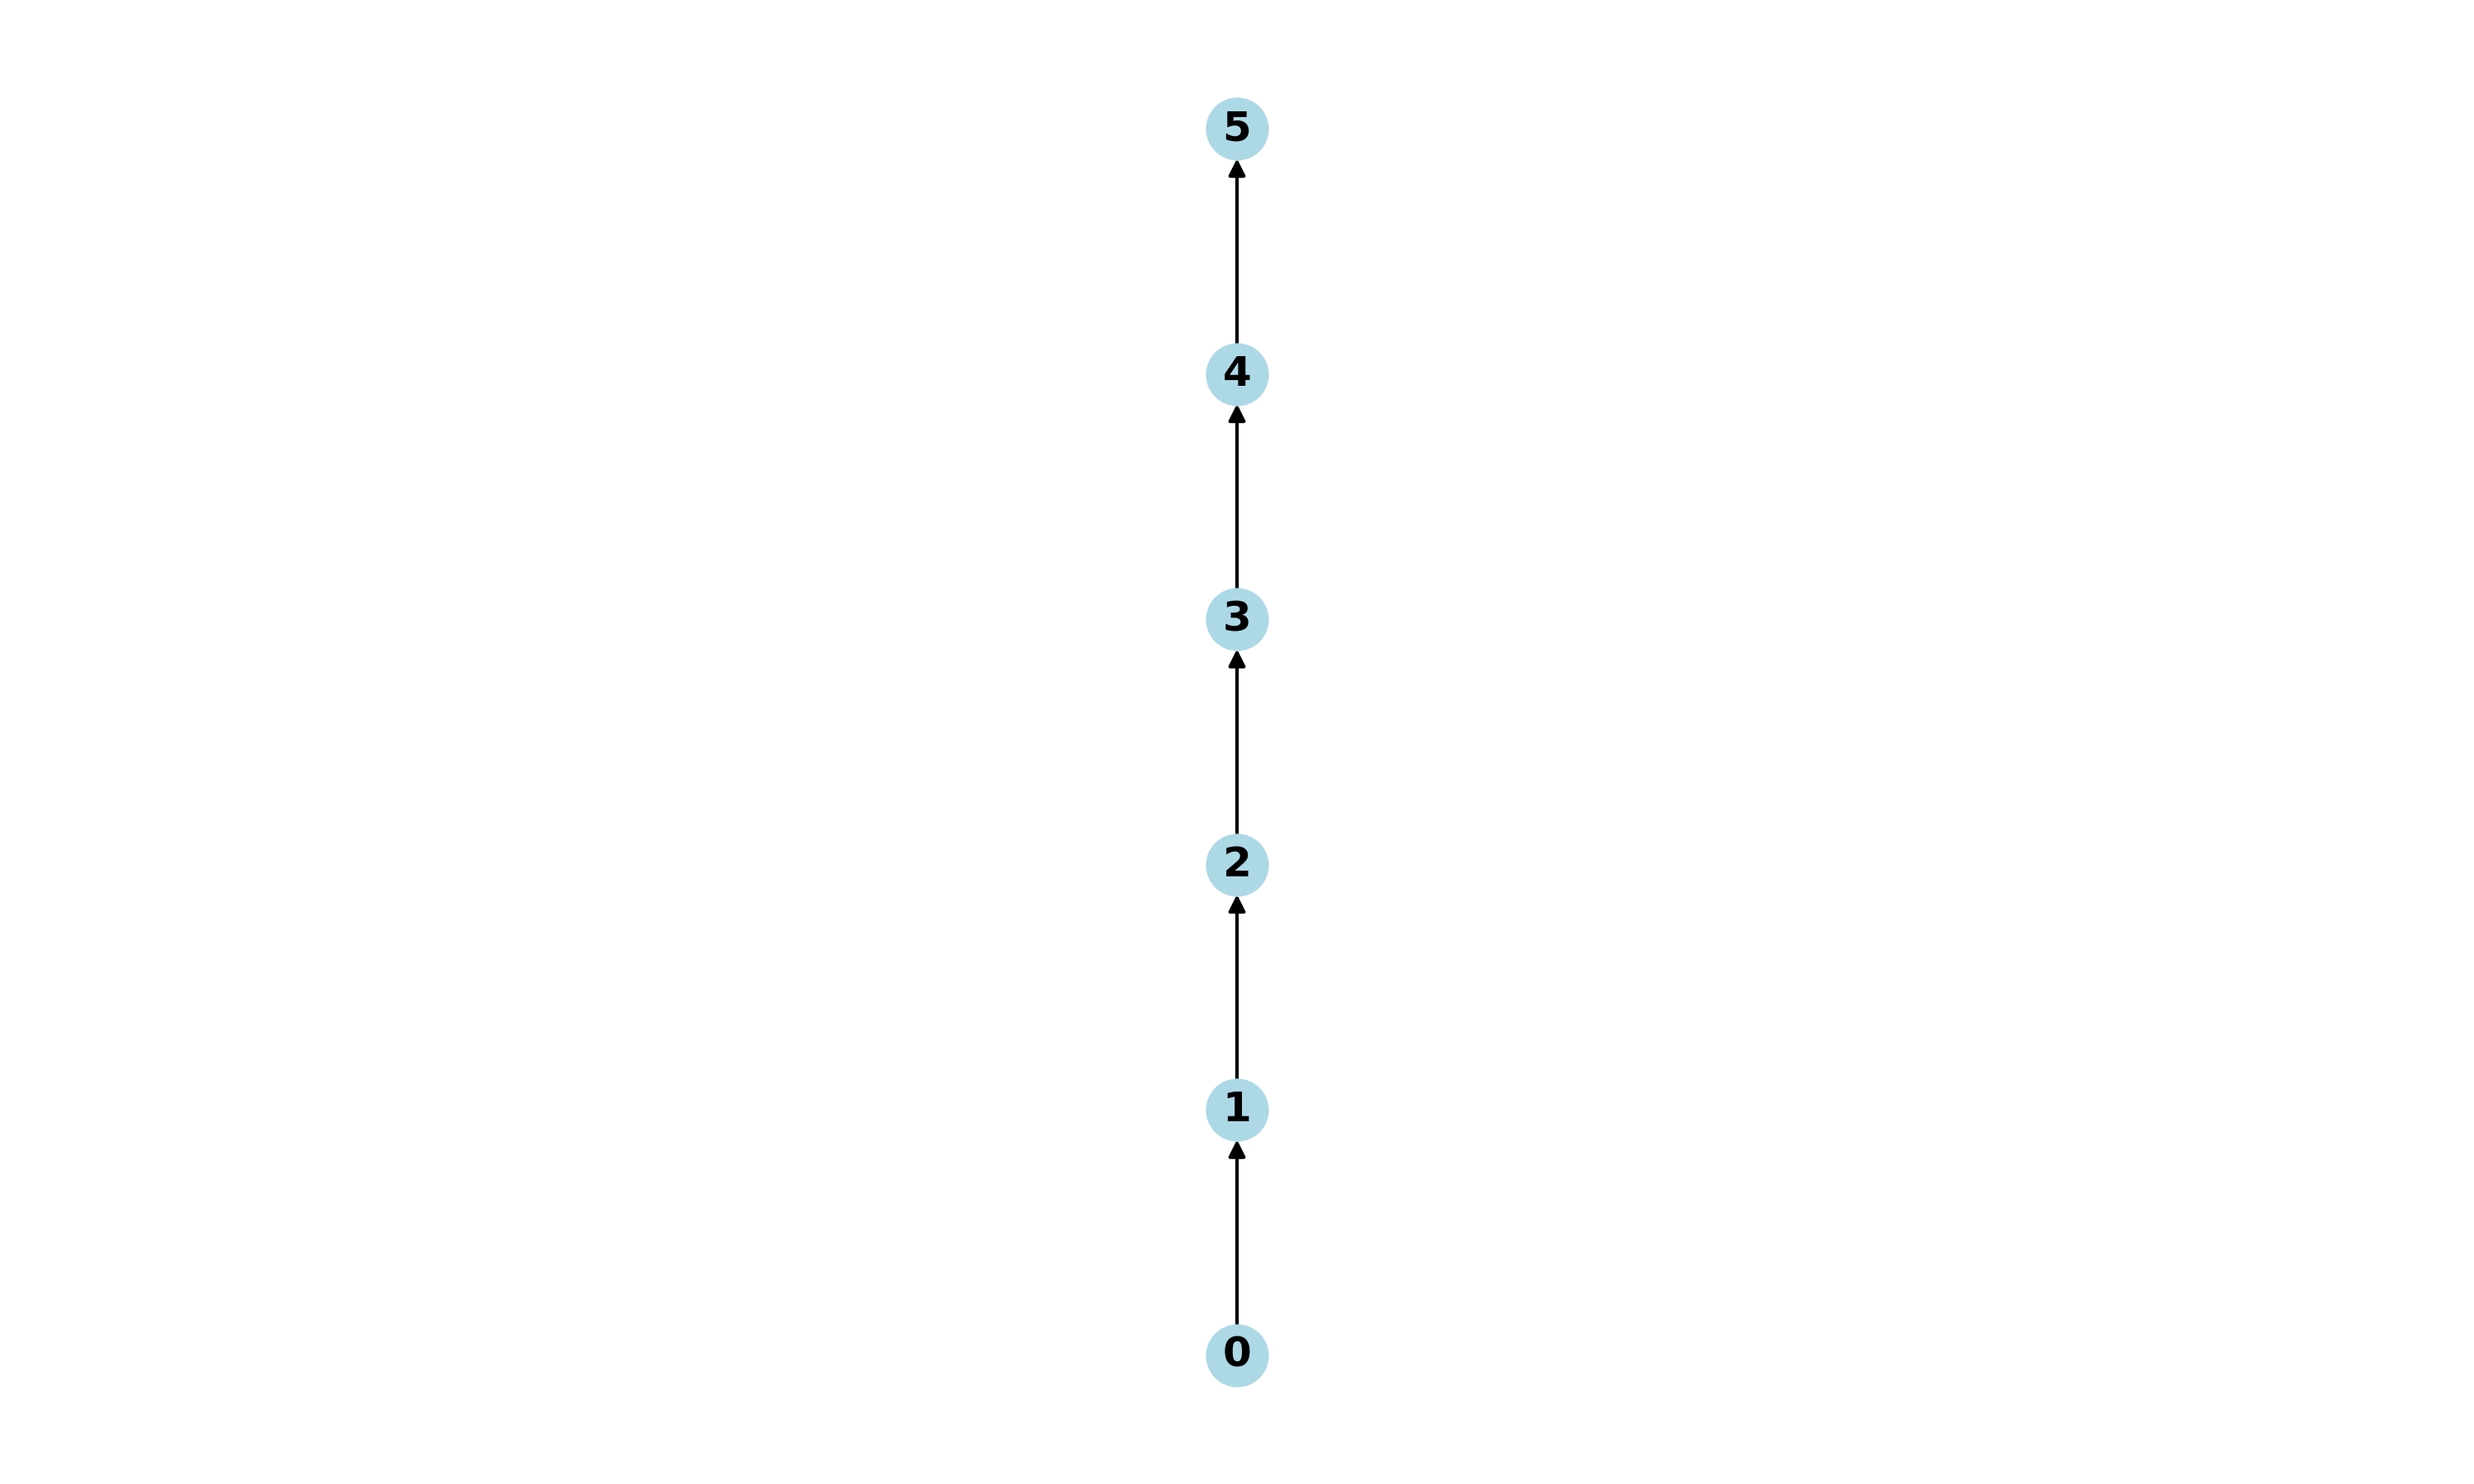
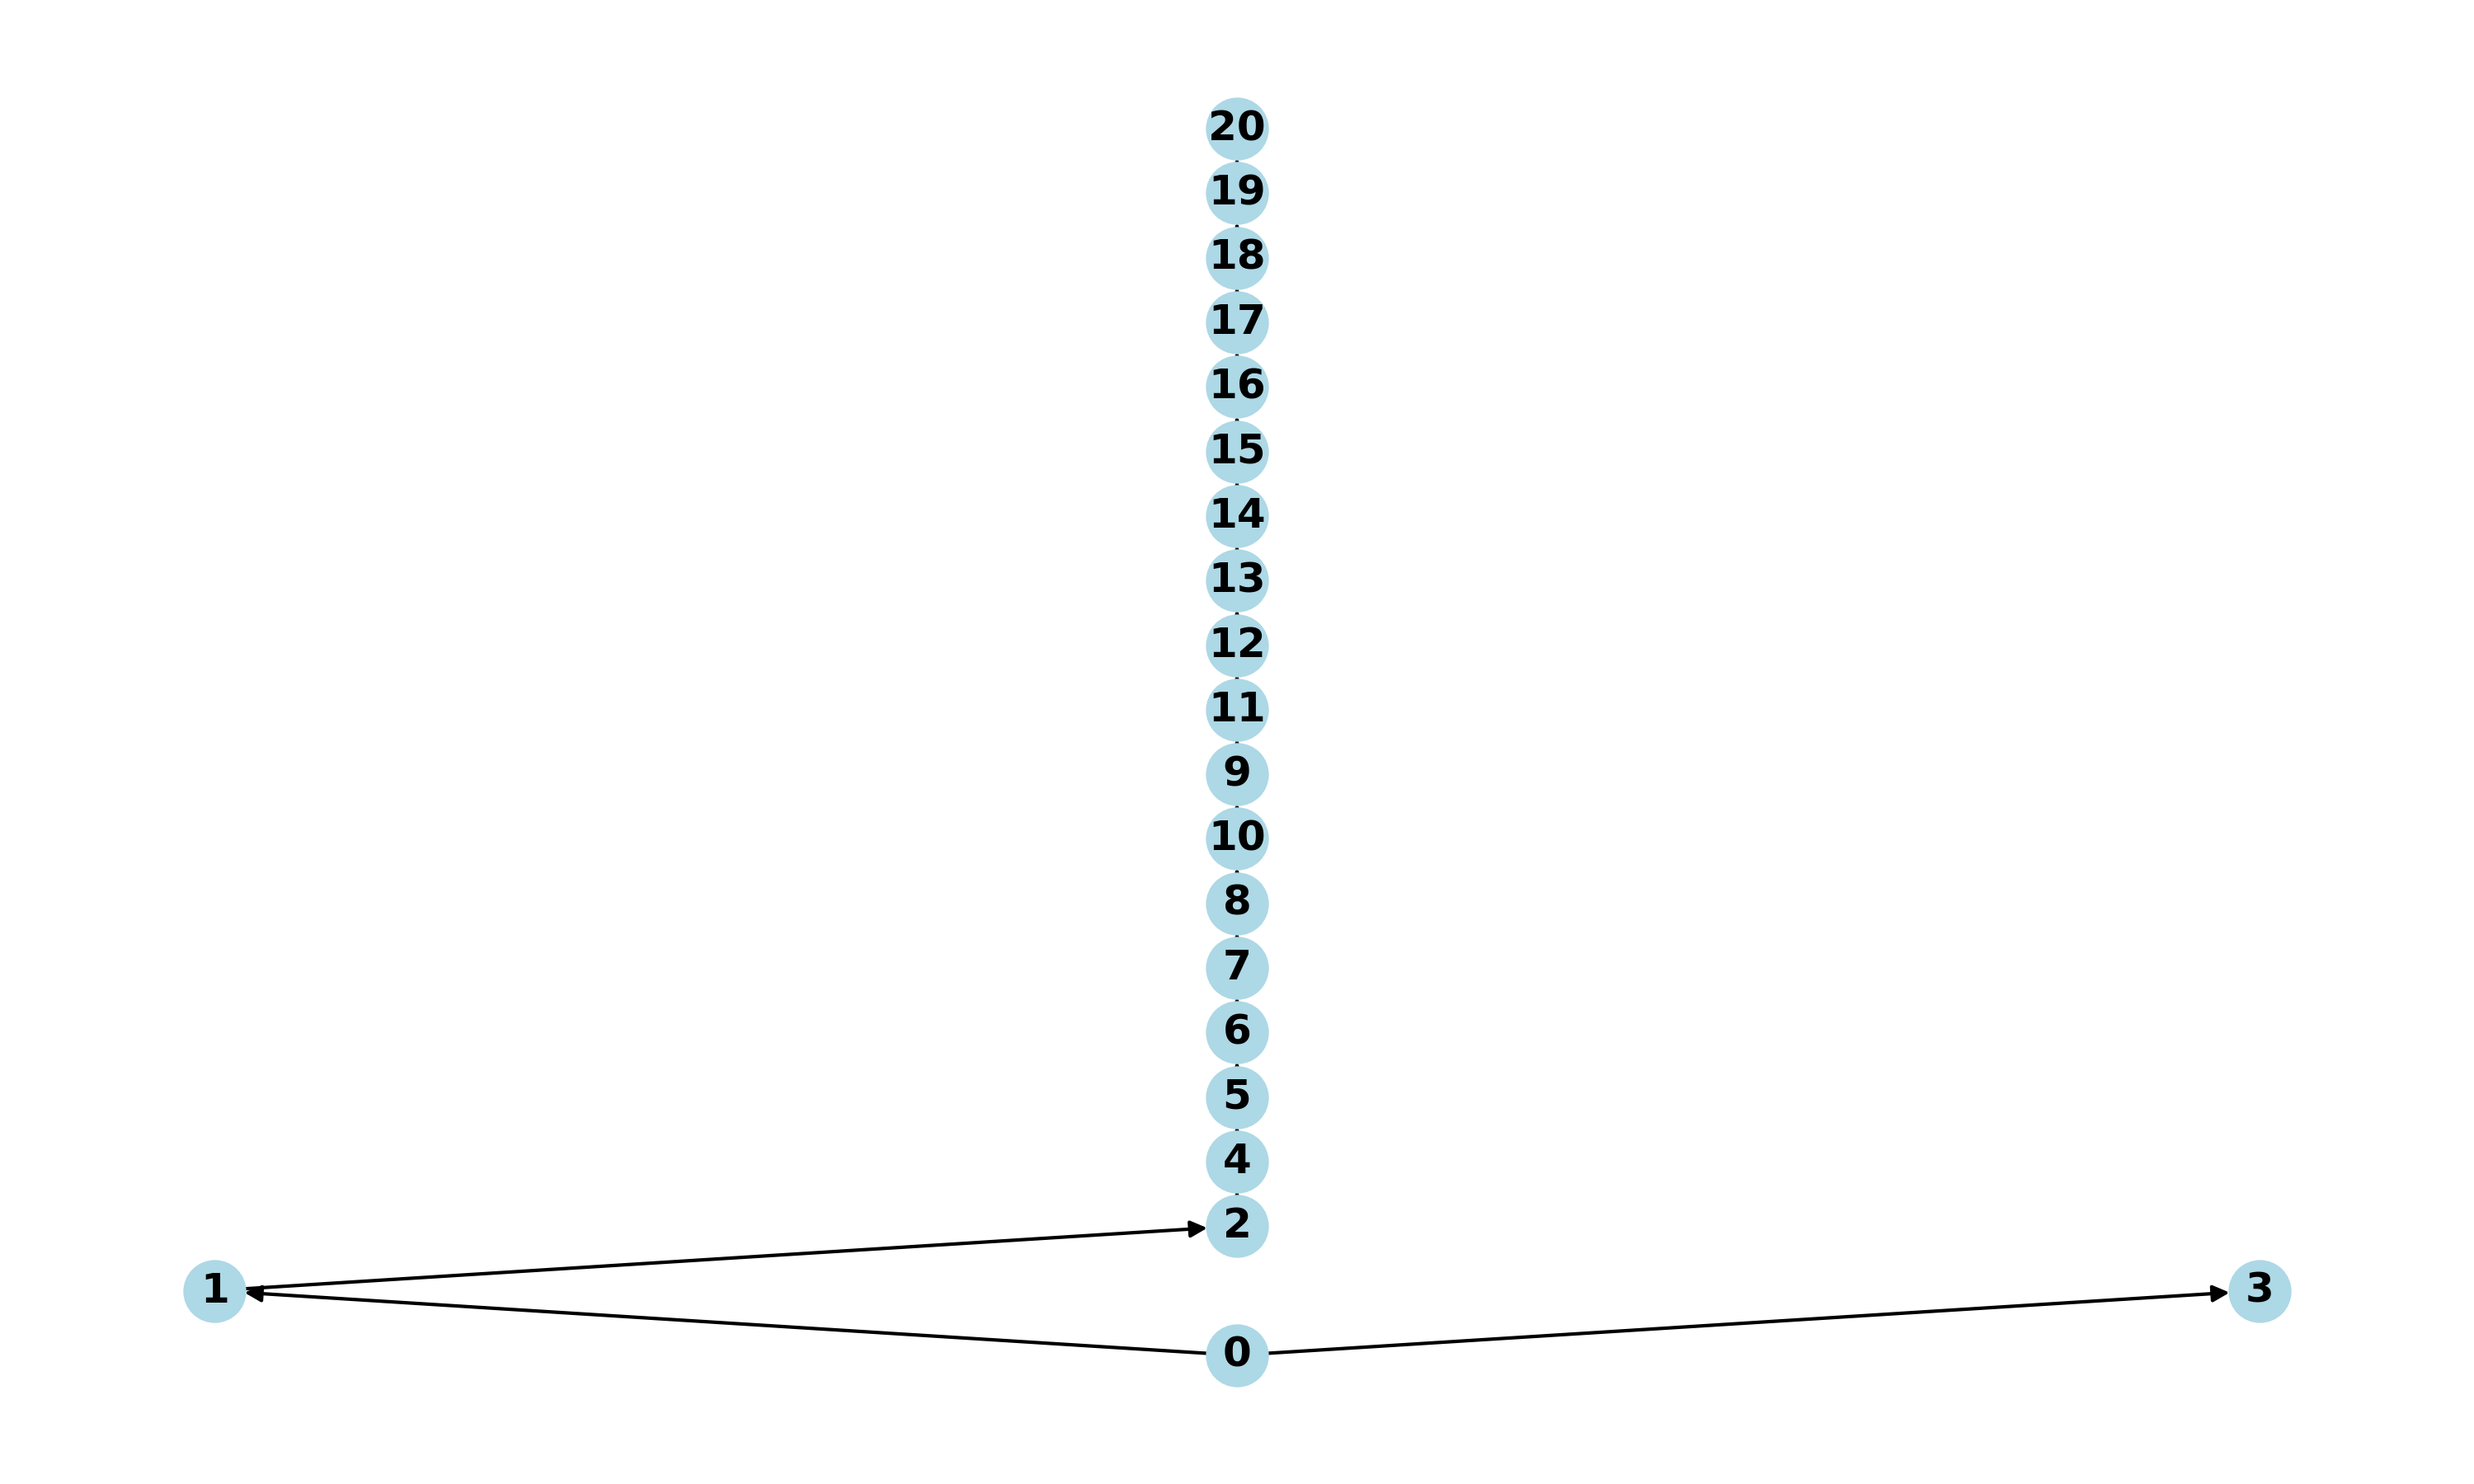
fork resolving code commented

Changed region(s): [[0.465, 0.0622, 0.527, 0.8711], [0.062, 0.84, 0.124, 0.9022], [0.899, 0.84, 0.93, 0.9022]]

diff --git a/simulate.py b/simulate.py
@@ -6,11 +6,11 @@ from Graph_utils import *
 import simpy as sp
 
 
-n_peers = 8
+n_peers = 15
 z0 = 0.2
-z1 = 0.2
-Ttx = 5
-IaT = 10
+z1 = 0.3
+Ttx = 1
+IaT = 15
 
 P2P_network , peers = P2P_network_generate(n_peers, z0, z1)
 
@@ -54,9 +54,9 @@ def forward_block(env,block : Block,peer : Peer, peer2 : Peer):
 
     print(f'Peer {peer2.ID} nodes {[blk.BlkId for blk in peer2.ledger.nodes]}')
     if peer2.ID in block.peers_already_received:
-        print(f"returning from Peer {peer2.ID} since blcok {block.BlkId} is alreadfy here")
+        print(f"returning from Peer {peer2.ID} since block {block.BlkId} is already here.!!")
         return 
-     #//TODO:
+     #//TODO: validate
 
 
     lengths = nx.single_source_shortest_path_length(peer2.ledger,source=peer2.genesis)
@@ -96,7 +96,7 @@ def generate_block(env,peer :Peer):
             max_length = lengths[blk]
 
     print(f"Peer {peer.ID} starts mining at {env.now}.")
-    mining_time = random.expovariate(1/Ttx)
+    mining_time = random.expovariate(peer.hashingPower/IaT) #//TODO:
     #//TODO:
     yield env.timeout(mining_time)
     print(f"Peer {peer.ID} ends mining at {env.now}.")
@@ -112,20 +112,21 @@ def generate_block(env,peer :Peer):
     if longest_chain_node != longest_chain_node_new:
             print(f"Peer {peer.ID} was slow in mining someone else mined first.")
 
-    if longest_chain_node == longest_chain_node_new:
-        block = Block(peer,env.now,longest_chain_node,txns)
-            # peer.mempool.clear()
-        block.TxnList.append(Transaction(env.now,peer,None,50)) # coinbase
-        block.peers_already_received.add(peer.ID)
-        print(f"Block {block.BlkId} mined by {peer.ID} and added in its ledger at {env.now}.")
-        print(f"Peer {peer.ID} previous ledger",[blk.BlkId for blk in peer.ledger.nodes])
-        peer.Tree.add(block.BlkId)
-        peer.ledger.add_node(block)
-        peer.ledger.add_edge(longest_chain_node,block)
-        print(f'Longest node {longest_chain_node.BlkId} for {peer.ID} at {env.now}')
-        print(f"Peer {peer.ID} updated ledger",[blk.BlkId for blk in peer.ledger.nodes])
+    print(f'Longest node {longest_chain_node.BlkId} for {peer.ID} at {env.now} before mining')
+    print(f'Longest node {longest_chain_node_new.BlkId} for {peer.ID} at {env.now} after mining')
+    # if longest_chain_node == longest_chain_node_new:
+    block = Block(peer,env.now,longest_chain_node,txns)
+                # peer.mempool.clear()
+    block.TxnList.append(Transaction(env.now,peer,None,50)) # coinbase
+    block.peers_already_received.add(peer.ID)
+    print(f"Block {block.BlkId} mined by {peer.ID} and added in its ledger at {env.now}.")
+    print(f"Peer {peer.ID} previous ledger",[blk.BlkId for blk in peer.ledger.nodes])
+    peer.Tree.add(block.BlkId)
+    peer.ledger.add_node(block)
+    peer.ledger.add_edge(longest_chain_node,block)
+    print(f"Peer {peer.ID} updated ledger",[blk.BlkId for blk in peer.ledger.nodes])
 
-        for neigh in peer.neighbours:
+    for neigh in peer.neighbours:
             if neigh.ID not in block.peers_already_received:
                 print(f"Forwarding from generator function -- Block {block.BlkId} to Peer {neigh.ID} from Peer {peer.ID}")
                 env.process(forward_block(env,block,peer,neigh))
@@ -148,9 +149,9 @@ for peer in peers:
 
     def block_generator_for_every_peer(env,peer : Peer):
         while True:
+            interarrival_blovk_time = random.expovariate(1/IaT)
+            yield env.timeout(interarrival_blovk_time)
             yield env.process(generate_block(env, peer))
-            # interarrival_blovk_time = random.expovariate(1/IaT)
-            # yield env.timeout(interarrival_blovk_time)
 
     env.process(block_generator_for_every_peer(env,peer))
 
@@ -160,7 +161,7 @@ for peer in peers:
 #     for key , value in peer.prop_delays.items():
 #         print('\t',key,value)
 
-env.run(until=12)
+env.run(until=300)
 
 
 
@@ -171,7 +172,7 @@ for peer in peers:
     # nx.draw(peer.ledger,labels={n: n.BlkId for n in peer.ledger.nodes})
     # plt.savefig(f'Blockchain{peer.ID}.png')
     # plt.clf()
-    draw_tree_multipartite(peer.ledger,peer.genesis,f'./BlockChainTrees/Tree {peer.ID}.png')
+    make_blockChainTree(peer.ledger,peer.genesis,f'./BlockChainTrees/Tree {peer.ID}.png')
     print()
 
 

diff --git a/utils.py b/utils.py
@@ -11,22 +11,17 @@ def delay(A : Peer , B : Peer , m):
 import networkx as nx
 import matplotlib.pyplot as plt
 
-def draw_tree_multipartite(graph,genesis,filename="tree_multipartite.png"):
-    plt.figure(figsize=(10, 6))  # Larger figure for better spacing
+def make_blockChainTree(graph,genesis,filename="tree_multipartite.png"):
+    plt.figure(figsize=(10, 6))  
 
-    # Assign each node a depth (layer) based on shortest path from root
-      # Assuming 0 is the root node (Genesis block in blockchain)
     layers = nx.single_source_shortest_path_length(graph, genesis)
     for node in graph.nodes:
         graph.nodes[node]["subset"] = layers.get(node, 0)
 
-    # Apply multipartite layout using node levels
     pos = nx.multipartite_layout(graph, align='horizontal',  subset_key="subset")
 
-    # Draw graph
     nx.draw(graph, pos, labels={n: n.BlkId for n in graph.nodes}, node_color="lightblue", edge_color="black",
             font_weight="bold", arrows=True)
 
-    # Save and show
     plt.savefig(filename, format="png", dpi=300)
     plt.clf()

diff --git a/Graph_utils.py b/Graph_utils.py
@@ -3,7 +3,6 @@ import matplotlib.pyplot as plt
 import networkx as nx
 from Peer import Peer
 from Block import Block
-import copy
 
 
 def random_graph(peers):

diff --git a/Peer.py b/Peer.py
@@ -1,7 +1,6 @@
 import random
 
 import networkx as nx
-from Block import Block
 
 class Peer:
     def __init__(self,ID,genesis):

diff --git a/Block.py b/Block.py
@@ -1,5 +1,4 @@
 import random
-import uuid
 import Peer
 
 class Block:
